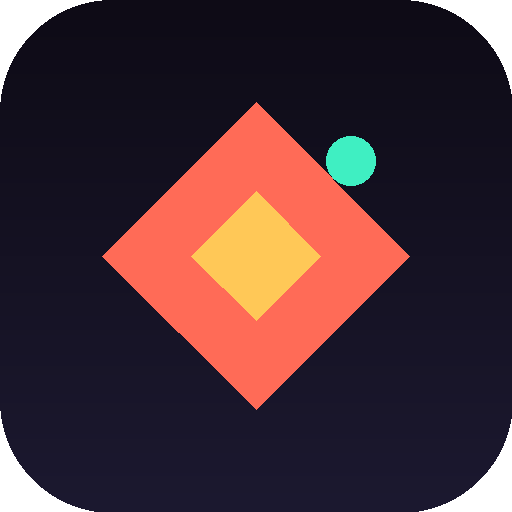
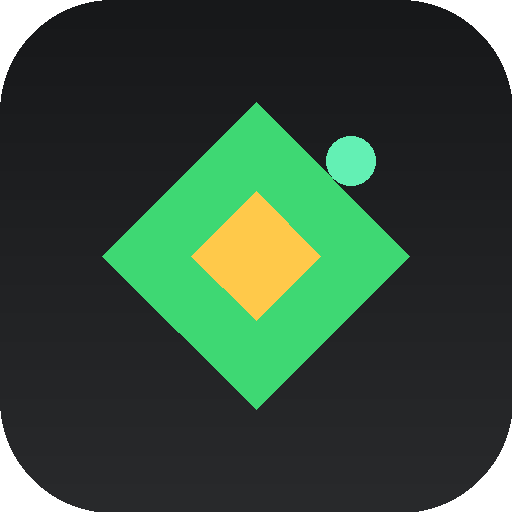
Add files via upload

Changed region(s): [[0.1875, 0.1875, 0.8125, 0.8125]]

diff --git a/index.html b/index.html
@@ -5,7 +5,7 @@
 <meta name="viewport" content="width=device-width, initial-scale=1, viewport-fit=cover, maximum-scale=1">
 <title>Dopamine Box</title>
 <link rel="manifest" href="manifest.json">
-<meta name="theme-color" content="#0B0A12">
+<meta name="theme-color" content="#17181A">
 <meta name="mobile-web-app-capable" content="yes">
 <meta name="apple-mobile-web-app-capable" content="yes">
 <meta name="apple-mobile-web-app-status-bar-style" content="black-translucent">
@@ -16,20 +16,20 @@
 <link href="https://fonts.googleapis.com/css2?family=Space+Grotesk:wght@400;500;600;700&family=Inter:wght@400;500;600;700;800&display=swap" rel="stylesheet">
 <style>
   :root{
-    --bg-0:#0B0A12;
-    --bg-1:#141220;
-    --bg-2:#1C1930;
-    --bg-card:#1A1729;
-    --line:#2A2640;
-    --ink:#F3F1FA;
-    --ink-dim:#9A93B8;
-    --ink-faint:#635C82;
-    --coral:#FF6B57;
-    --coral-dim:#7A362B;
-    --mint:#3FEFC2;
-    --gold:#FFC857;
-    --violet:#8E7CFF;
-    --danger:#FF5C7A;
+    --bg-0:#17181A;
+    --bg-1:#1F2022;
+    --bg-2:#292A2C;
+    --bg-card:#1D1E20;
+    --line:#34363A;
+    --ink:#F3F4F2;
+    --ink-dim:#9FA3A0;
+    --ink-faint:#6B6F6C;
+    --coral:#3ED873;
+    --coral-dim:#0F6B36;
+    --mint:#63F0B4;
+    --gold:#FFC94A;
+    --violet:#9B8CFF;
+    --danger:#FF6B5C;
     --font-display:'Space Grotesk', 'Inter', system-ui, sans-serif;
     --font-body:'Inter', system-ui, sans-serif;
     --radius-card:26px;
@@ -45,17 +45,17 @@
     overscroll-behavior:none;
   }
   html{
-    background: #08070D;
+    background: #0A0B0C;
   }
   body{
     margin:0;
     background:
-      radial-gradient(120% 60% at 50% -10%, #241E3D 0%, transparent 60%),
-      linear-gradient(180deg, var(--bg-0), #08070D 100%);
+      radial-gradient(120% 60% at 50% -10%, #232426 0%, transparent 60%),
+      linear-gradient(180deg, var(--bg-0), #0A0B0C 100%);
     color:var(--ink);
     font-family:var(--font-body);
-    position:fixed;
-    inset:0;
+    display:flex;
+    flex-direction:column;
     overscroll-behavior:none;
   }
   @media (prefers-reduced-motion: reduce){
@@ -65,15 +65,20 @@
   input,textarea,select{font-family:inherit;}
   ::-webkit-scrollbar{display:none;}
 
+  /* #app is the flexible, scrollable middle region; #bottomnav is a normal
+     last-in-flow sibling below it — not position:fixed — so its position
+     is never at the mercy of iOS's fixed-positioning viewport quirks. */
   #app{
     max-width:480px;
     margin:0 auto;
-    height:100%;
+    width:100%;
+    flex:1;
+    min-height:0;
     overflow-y:auto;
     -webkit-overflow-scrolling:touch;
     overscroll-behavior-y:contain;
     padding-top:calc(var(--safe-top) + 18px);
-    padding-bottom:calc(var(--safe-bottom) + 96px);
+    padding-bottom:18px;
     position:relative;
   }
 
@@ -105,8 +110,8 @@
     flex:1; background:var(--bg-card); border:1px solid var(--line); border-radius:20px;
     padding:14px 14px; position:relative; overflow:hidden;
   }
-  .stat-chip.flame{ background:linear-gradient(155deg, #2B1A1E 0%, var(--bg-card) 60%); }
-  .stat-chip.perfect{ background:linear-gradient(155deg, #2B2413 0%, var(--bg-card) 60%); }
+  .stat-chip.flame{ background:linear-gradient(155deg, #17301F 0%, var(--bg-card) 60%); }
+  .stat-chip.perfect{ background:linear-gradient(155deg, #302B15 0%, var(--bg-card) 60%); }
   .stat-chip .row{ display:flex; align-items:baseline; gap:7px;}
   .stat-chip .emoji{font-size:19px; line-height:1;}
   .stat-chip .num{ font-family:var(--font-display); font-size:26px; font-weight:700; }
@@ -134,7 +139,7 @@
   /* ---------- Section label ---------- */
   .grace-banner{
     margin:0 20px 6px; padding:12px 15px; border-radius:16px;
-    background:rgba(63,239,194,.10); border:1px solid rgba(63,239,194,.32);
+    background:rgba(99,240,180,.10); border:1px solid rgba(99,240,180,.32);
     color:var(--mint); font-size:12.5px; font-weight:600; line-height:1.4;
     display:flex; align-items:flex-start; gap:9px;
     animation:banner-in .4s cubic-bezier(.22,1,.36,1) both;
@@ -169,18 +174,18 @@
   .complete-btn{
     flex-shrink:0; border:none; cursor:pointer;
     width:54px; height:54px; border-radius:18px;
-    background:linear-gradient(155deg, var(--coral), #E14D3A);
-    box-shadow:0 6px 0 var(--coral-dim), 0 10px 18px -6px rgba(255,107,87,.5);
-    display:flex; align-items:center; justify-content:center; color:#fff; font-size:22px;
+    background:linear-gradient(155deg, var(--coral), #1FA855);
+    box-shadow:0 6px 0 var(--coral-dim), 0 10px 20px -6px rgba(62,216,115,.5);
+    display:flex; align-items:center; justify-content:center; color:#08170E; font-size:22px;
     transition:transform .08s ease, box-shadow .08s ease, background .28s ease, color .28s ease;
   }
-  .complete-btn:active{ transform:translateY(5px); box-shadow:0 1px 0 var(--coral-dim), 0 2px 6px -2px rgba(255,107,87,.5); }
+  .complete-btn:active{ transform:translateY(5px); box-shadow:0 1px 0 var(--coral-dim), 0 2px 6px -2px rgba(62,216,115,.5); }
 
   .task-card.done{
     background:var(--bg-1);
     opacity:.55;
   }
-  .task-card.done .task-emoji{ background:rgba(63,239,194,.12); border-color:rgba(63,239,194,.3); }
+  .task-card.done .task-emoji{ background:rgba(99,240,180,.14); border-color:rgba(99,240,180,.32); }
   .task-card.done .task-name{ text-decoration:line-through; color:var(--ink-faint); }
   .task-card.done .complete-btn{
     background:var(--bg-2); box-shadow:none; color:var(--mint);
@@ -210,8 +215,12 @@
   .empty-state .cta{ margin-top:14px; display:inline-block; padding:10px 18px; border-radius:999px; background:var(--coral); color:#fff; font-weight:700; font-size:13px; border:none; cursor:pointer;}
 
   /* ---------- Bottom nav ---------- */
+  /* Normal flow, not position:fixed — it's the last child of body's flex
+     column, so it just sits after the scrollable area with no viewport
+     positioning ambiguity. z-index kept in case anything needs to layer
+     under it during transitions. */
   #bottomnav{
-    position:fixed; left:0; right:0; bottom:0; z-index:40;
+    flex-shrink:0; z-index:40;
     display:flex; justify-content:center;
     padding:0 16px calc(var(--safe-bottom) + 10px);
   }
@@ -271,14 +280,14 @@
     width:42px;height:42px;border-radius:12px; background:var(--bg-2); border:1px solid var(--line);
     font-size:19px; display:flex; align-items:center; justify-content:center; cursor:pointer;
   }
-  .emoji-pick.sel{ border-color:var(--coral); background:rgba(255,107,87,.12); }
+  .emoji-pick.sel{ border-color:var(--coral); background:rgba(62,216,115,.14); }
   .toggle-row{ display:flex; align-items:center; justify-content:space-between; padding:13px 2px; border-bottom:1px solid var(--line); }
   .toggle-row:last-child{ border-bottom:none; }
   .toggle-row .t{ font-size:14.5px; font-weight:600; }
   .toggle-row .d{ font-size:12px; color:var(--ink-faint); margin-top:2px; }
   .switch{ width:46px; height:27px; border-radius:999px; background:var(--bg-2); border:1px solid var(--line); position:relative; cursor:pointer; flex-shrink:0; }
   .switch .knob{ width:21px;height:21px; border-radius:50%; background:var(--ink-faint); position:absolute; top:2px; left:2px; transition:all .18s ease; }
-  .switch.on{ background:rgba(255,107,87,.35); border-color:var(--coral); }
+  .switch.on{ background:rgba(62,216,115,.35); border-color:var(--coral); }
   .switch.on .knob{ left:21px; background:var(--coral); }
 
   .pack-list{ display:flex; flex-direction:column; gap:8px; }
@@ -286,7 +295,7 @@
     display:flex; align-items:center; justify-content:space-between; padding:13px 15px;
     background:var(--bg-2); border:1px solid var(--line); border-radius:16px; cursor:pointer;
   }
-  .pack-row.sel{ border-color:var(--mint); background:rgba(63,239,194,.08); }
+  .pack-row.sel{ border-color:var(--mint); background:rgba(99,240,180,.10); }
   .pack-row.locked{ opacity:.5; }
   .pack-name{ font-weight:600; font-size:14px; }
   .pack-req{ font-size:11px; color:var(--ink-faint); margin-top:2px; }
@@ -312,7 +321,7 @@
 
   /* ---------- Final celebration overlay ---------- */
   #celebrate{
-    position:fixed; inset:0; background:radial-gradient(120% 90% at 50% 20%, #26193A 0%, #0A0812 70%);
+    position:fixed; inset:0; background:radial-gradient(120% 90% at 50% 20%, #232426 0%, #0A0B0C 70%);
     z-index:100; display:flex; align-items:center; justify-content:center; flex-direction:column;
     opacity:0; pointer-events:none; transition:opacity .35s ease; text-align:center; padding:24px;
   }
@@ -854,7 +863,7 @@
     layer.style.pointerEvents='none'; layer.style.zIndex='55';
     document.body.appendChild(layer);
     const cx = rect.left + rect.width*0.86, cy = rect.top + rect.height*0.5;
-    const colors = ['#FF6B57','#3FEFC2','#FFC857','#8E7CFF'];
+    const colors = ['#3ED873','#63F0B4','#FFC94A','#9B8CFF'];
     for(let i=0;i<14;i++){
       const p = document.createElement('div');
       const size = 5 + Math.random()*5;
@@ -870,7 +879,7 @@
       p.animate([
         {transform:'translate(0,0) scale(1)', opacity:1},
         {transform:`translate(${dx}px, ${dy}px) scale(0.3)`, opacity:0}
-      ], {duration:600+Math.random()*300, easing:'cubic-bezier(.2,.8,.3,1)'});
+      ], {duration:600+Math.random()*300, easing:'cubic-bezier(.2,.8,.3,1)', fill:'forwards'});
       layer.appendChild(p);
     }
     setTimeout(()=> layer.remove(), 1000);
@@ -1080,7 +1089,7 @@
     const c2 = canvas.getContext('2d');
     c2.setTransform(dpr,0,0,dpr,0,0);
     const W = canvas.clientWidth, H = canvas.clientHeight;
-    const colors = ['#FF6B57','#3FEFC2','#FFC857','#8E7CFF','#F3F1FA'];
+    const colors = ['#3ED873','#63F0B4','#FFC94A','#9B8CFF','#F3F4F2'];
     const particles = [];
     for(let i=0;i<90;i++){
       particles.push({

diff --git a/service-worker.js b/service-worker.js
@@ -1,7 +1,7 @@
 // Dopamine Box — service worker
 // Bump CACHE_VERSION whenever index.html (or other cached assets) change,
 // so returning users pick up the new version instead of a stale cache.
-const CACHE_VERSION = 'dopamine-box-v2';
+const CACHE_VERSION = 'dopamine-box-v3';
 
 const APP_SHELL = [
   './',
